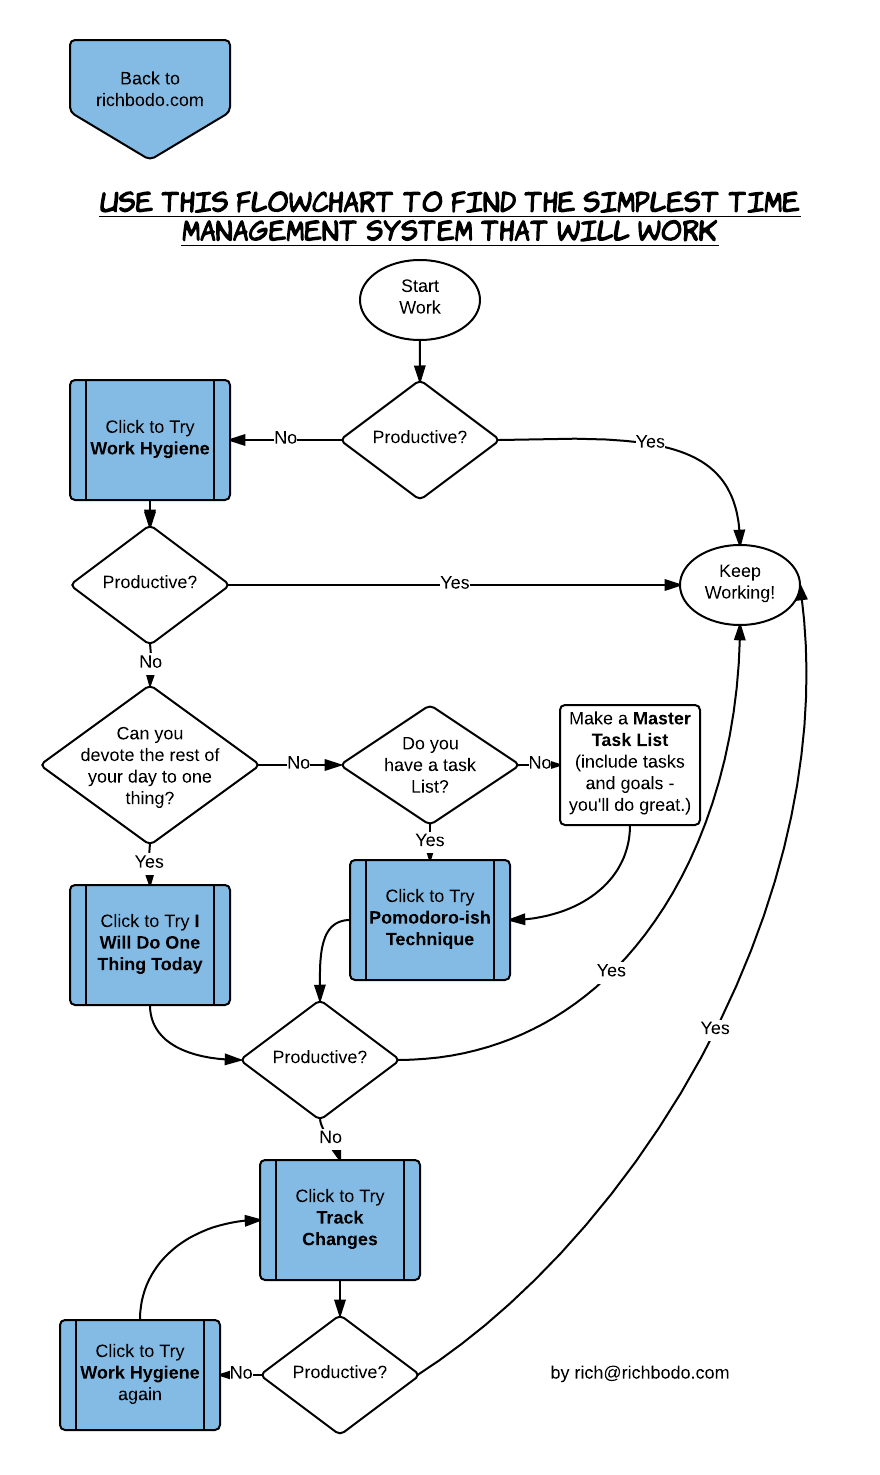
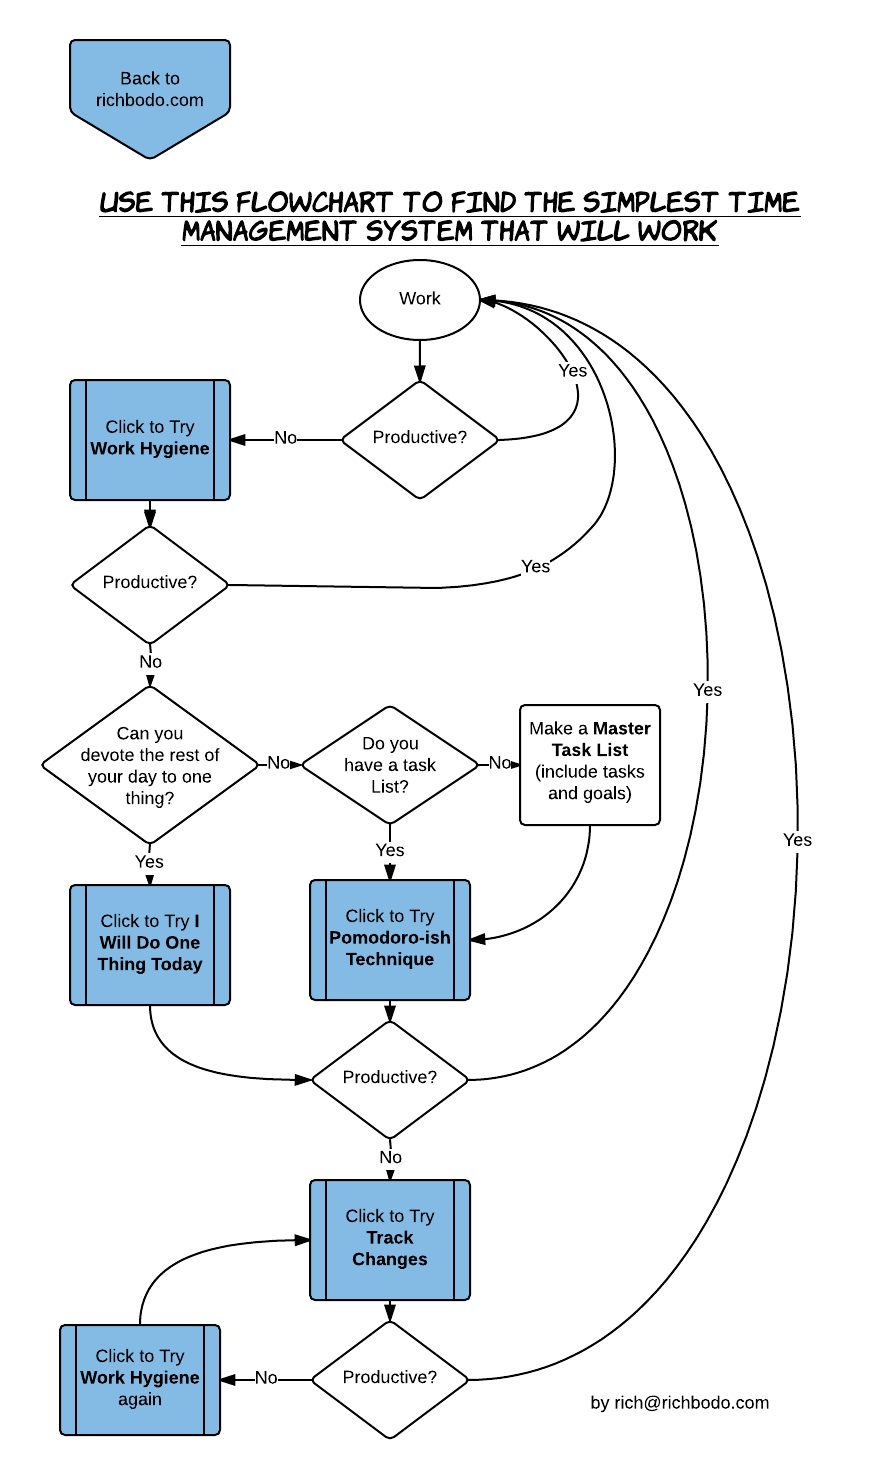
minor update to time management article

diff --git a/tmcd/tm-troubleshooting.html b/tmcd/tm-troubleshooting.html
@@ -1,6 +1,6 @@
 <html>
 <body>
-<img src="/images/time-management/tm-troubleshooting.png" width="880" height="1475" border="0" usemap="#map" />
+<img src="/images/time-management/tm-troubleshooting.png" width="880" height="1480" border="0" usemap="#map" />
 
 <map name="map">
 <!-- #$-:Image map file created by GIMP Image Map plug-in -->
@@ -8,12 +8,12 @@
 <!-- #$-:Please do not edit lines starting with "#$" -->
 <!-- #$VERSION:2.3 -->
 <!-- #$AUTHOR:Richard Bodo -->
-<area shape="rect" coords="69,37,231,159" href="http://richbodo.com" />
-<area shape="rect" coords="68,378,232,501" href="/tmcd/work-hygiene.html" />
+<area shape="rect" coords="68,36,232,160" href="http://richbodo.com" />
+<area shape="rect" coords="68,377,231,501" href="/tmcd/work-hygiene.html" />
 <area shape="rect" coords="69,883,230,1005" href="/tmcd/do-one-thing.html" />
-<area shape="rect" coords="349,858,512,981" href="/tmcd/pomodoro-ish.html" />
-<area shape="rect" coords="259,1157,421,1283" href="/tmcd/track-changes.html" />
-<area shape="rect" coords="58,1318,221,1431" href="/tmcd/work-hygiene.html" />
+<area shape="rect" coords="308,876,470,1001" href="/tmcd/pomodoro-ish.html" />
+<area shape="rect" coords="308,1177,471,1301" href="/tmcd/track-changes.html" />
 </map>
+
 </body>
 </html>
